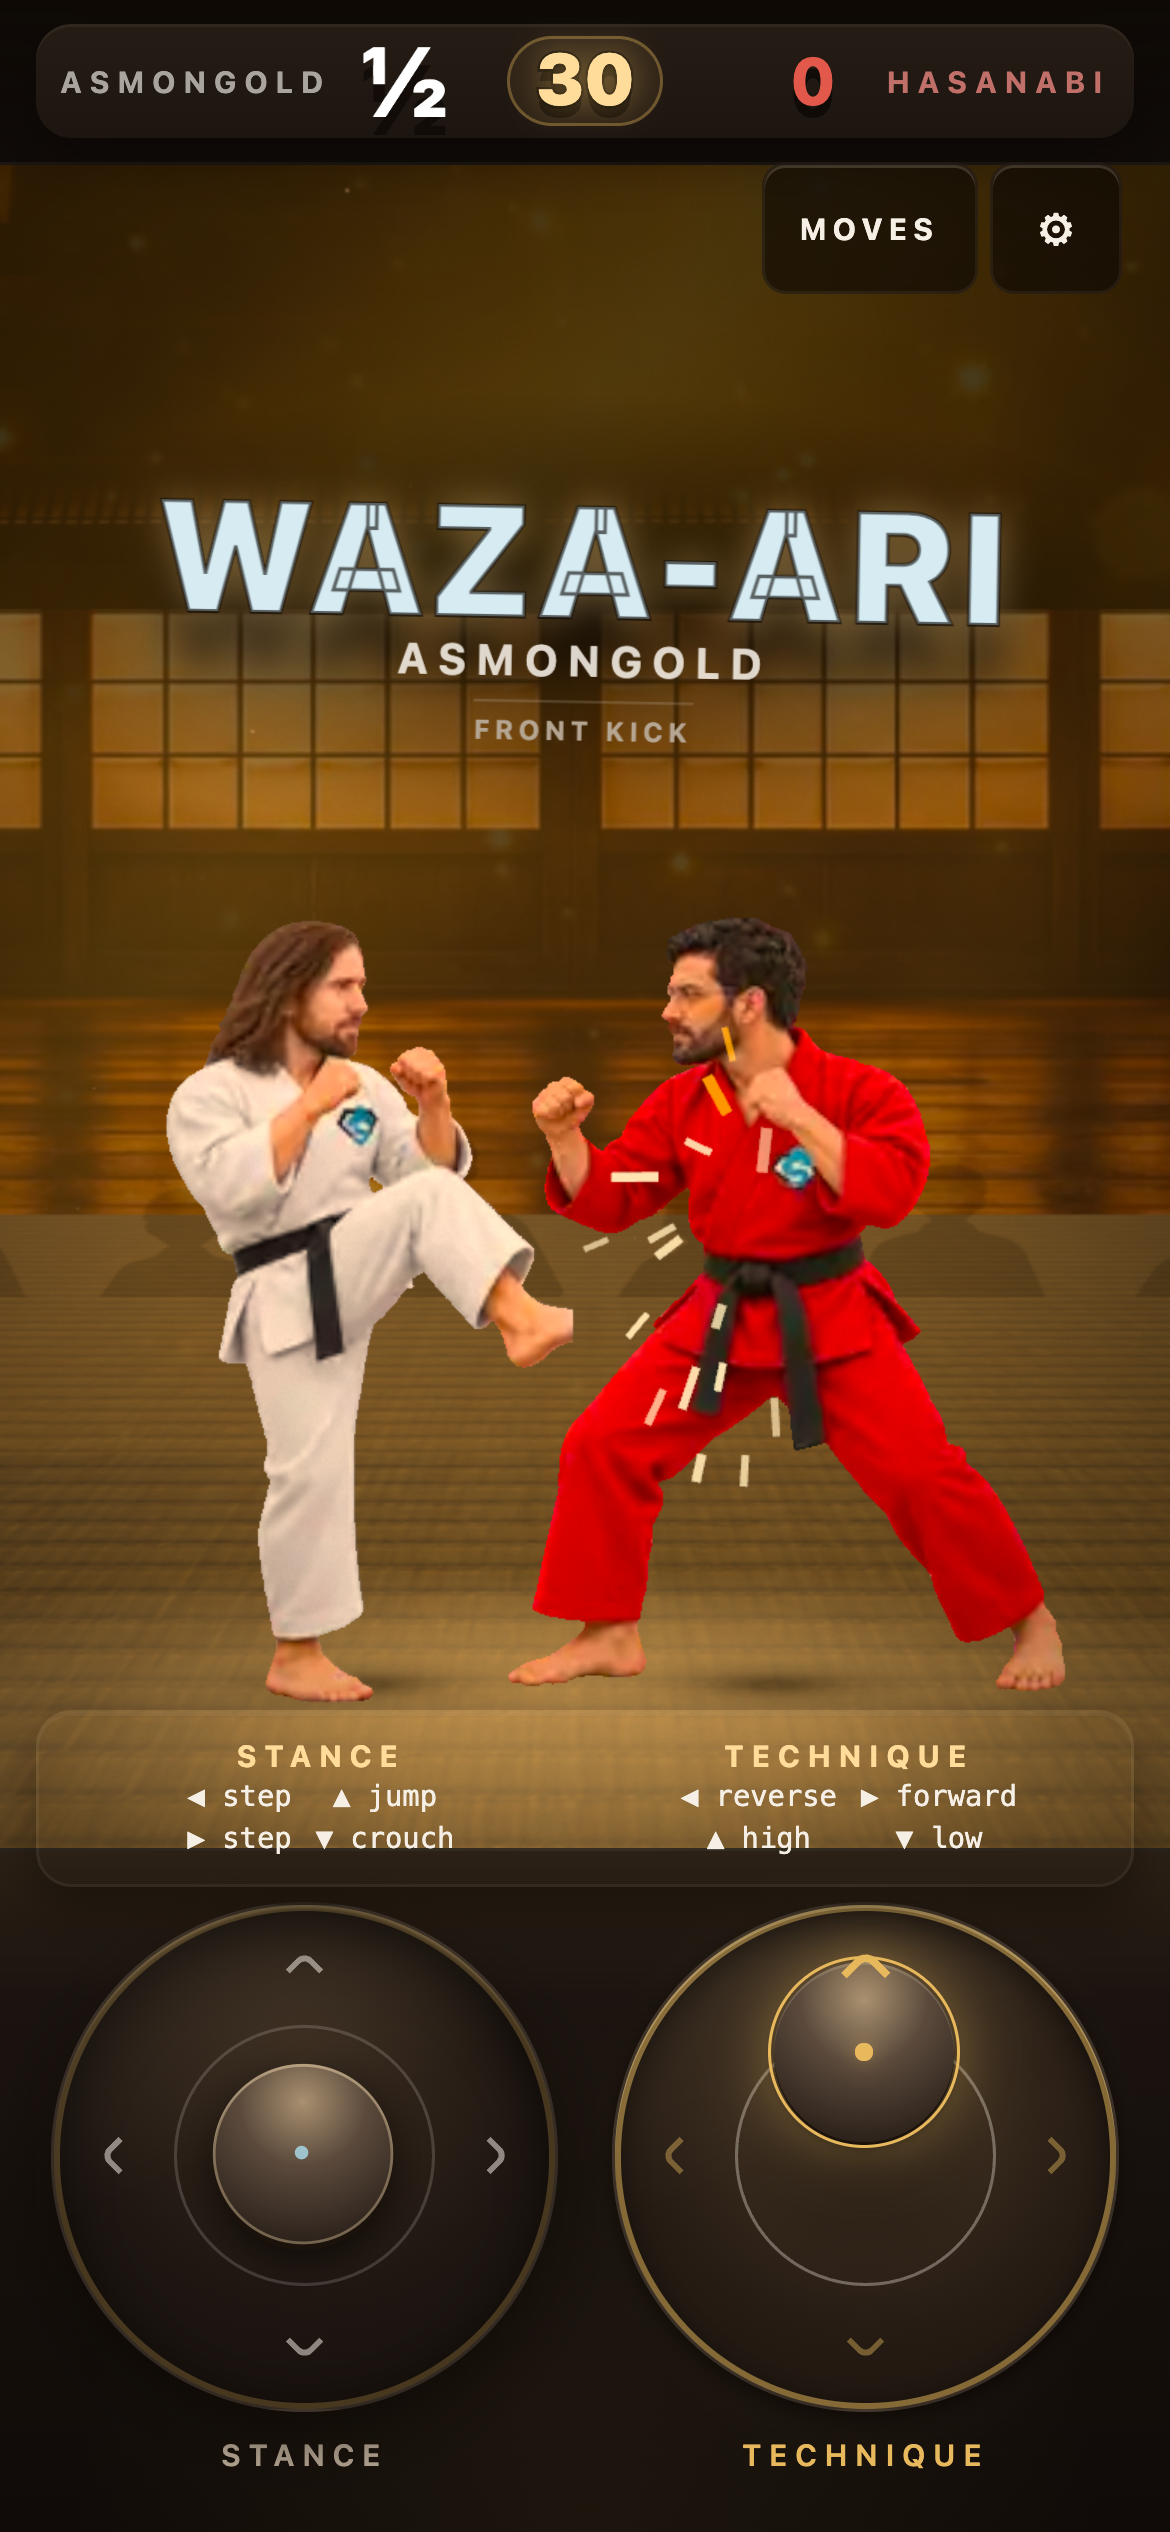
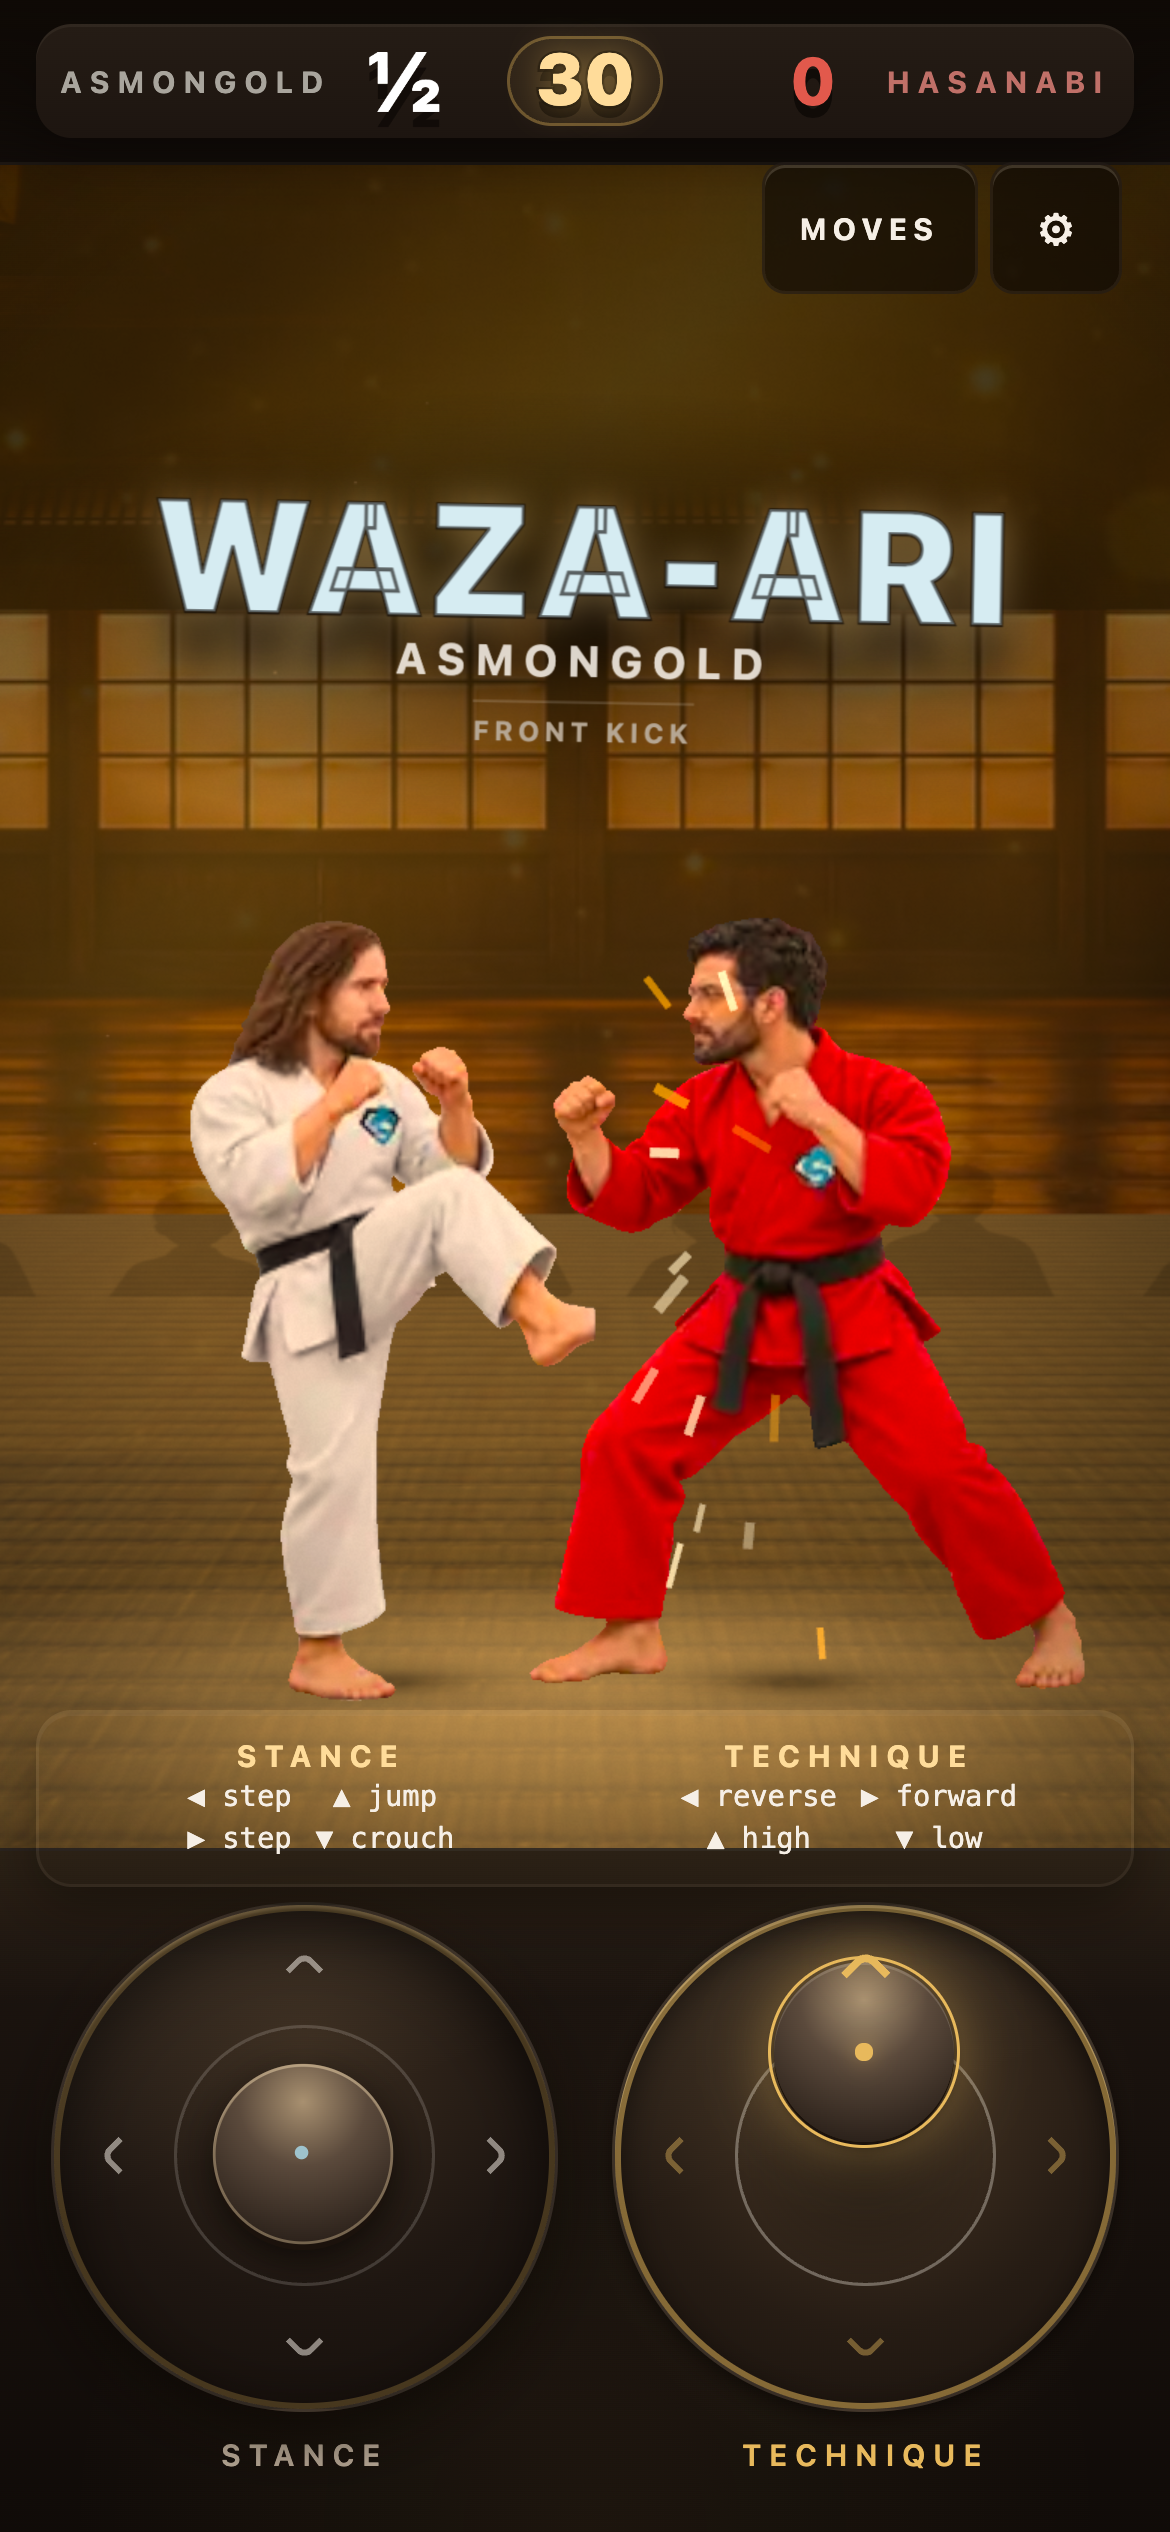
fix(juice): the hit flash was deleting the fighter it was supposed to sell
Five models across three rounds, none of whom could name it:

- perceptron-mk1.5: "a bright white glow completely obscures the fighter in
  white, making it impossible to see their reaction or the impact point"
- gpt-5.6-sol: "preserve fighter readability during scoring hits"
- gpt-5.5: "reduce hit flash clipping"
- qwen3.8-max-0902: "the receiver clips to a featureless white blob on IPPON"
- minimax-m3: "the IPPON hit effect reads as face paint, not impact"

They were all describing the same erased man, and the captured impact frame
shows exactly what they saw: the struck fighter's face, gi, arms and chest
emblem all clipped to a single flat white silhouette, for 140ms, at the exact
moment the player is trying to see that the hit landed and what it landed on.

One line of arithmetic. `flash()` was `color.setScalar(1 + amount * 2.4)`, and
a full point passes `amount: 1` — a 3.4x multiplier on an already-lit texture.
There is no mask, no post-pass and no bloom to blame; the sprite was being told
to render at three and a half times its own light.

Now 1.75, and 95ms instead of 140ms so the pop is out of the way before the
recoil is worth watching. Re-captured the same impact: the fighter is bright,
obviously struck, and completely readable — face turned into the kick, belt,
gi folds, the ShoeMoney mark on his chest. A hit should brighten, not delete.

**Five reviewers agreeing is not the signal. Five reviewers pointing at the same
[…]

diff --git a/apps/game/src/spriteRig.ts b/apps/game/src/spriteRig.ts
@@ -292,8 +292,26 @@ export class SpriteFighterView implements FighterView {
     }
   }
 
+  /**
+   * The struck-fighter pop. It used to be `1 + amount * 2.4`, and at a full
+   * point that is a 3.4x multiplier on an already-lit texture, which clipped
+   * the whole figure to a featureless white silhouette — face, gi and arms all
+   * gone, for 140ms, at the exact moment the player is trying to see that the
+   * hit landed and what it landed on.
+   *
+   * Five models across three rounds reported it and none of them could name it:
+   * perceptron-mk1.5 "a bright white glow completely obscures the fighter in
+   * white", gpt-5.6-sol "preserve fighter readability during scoring hits",
+   * gpt-5.5 "reduce hit flash clipping", qwen3.8-max-0902 "the receiver clips
+   * to a featureless white blob on IPPON", minimax-m3 "reads as face paint,
+   * not impact". All five were describing the same erased man, and the captured
+   * impact frame shows exactly what they saw.
+   *
+   * A hit should brighten, not delete. 1.75 reads as a hard pop against the
+   * tungsten and still leaves the face, the belt and the gi readable.
+   */
   flash(amount: number): void {
-    this.mesh.material.color.setScalar(1 + amount * 2.4);
+    this.mesh.material.color.setScalar(1 + amount * 0.75);
   }
 
   /**

diff --git a/apps/game/src/juice.ts b/apps/game/src/juice.ts
@@ -193,7 +193,9 @@ export class Juice {
       this.punchTargetX = x;
       if (kind !== 'block') {
         if (defender?.flash !== undefined) {
-          this.fighterFlashes.push({ view: defender, start: nowMs, until: nowMs + (heavy ? 140 : 100), peak: heavy ? 1 : 0.7 });
+          // Shorter as well as dimmer: the pop has to be out of the way before
+          // the fighter's recoil is worth watching.
+          this.fighterFlashes.push({ view: defender, start: nowMs, until: nowMs + (heavy ? 95 : 70), peak: heavy ? 1 : 0.7 });
         }
         // Pushed away from the striker, harder on a full point, and always
         // sprung back to zero by the rig.
